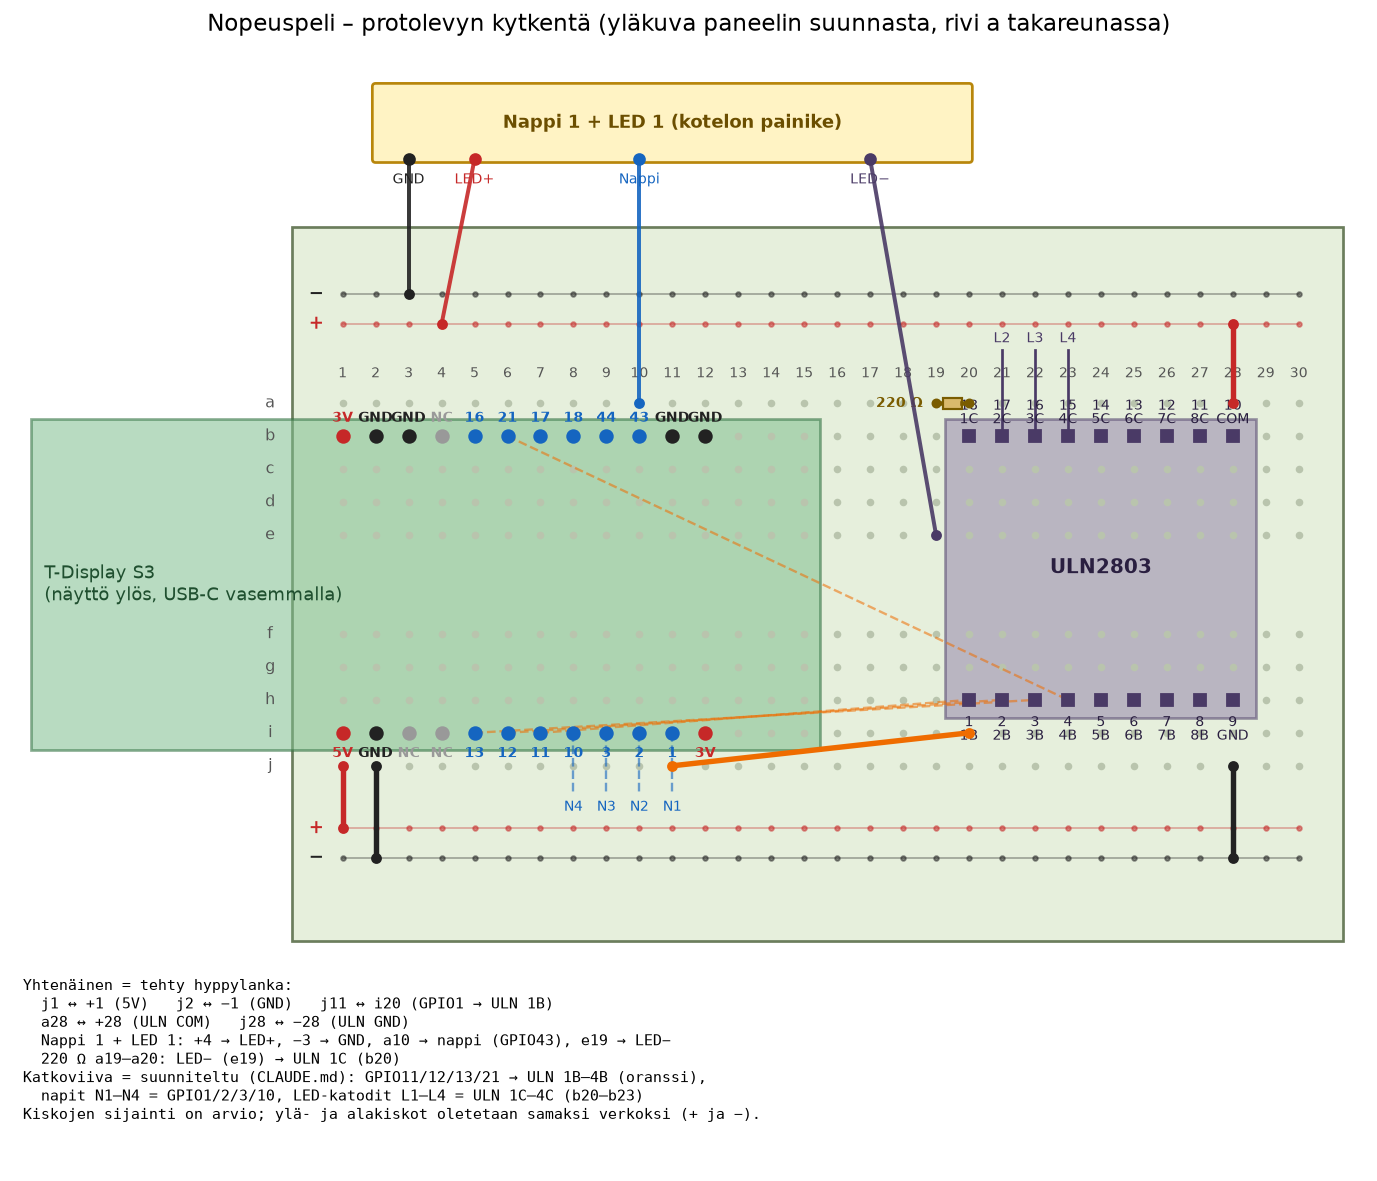
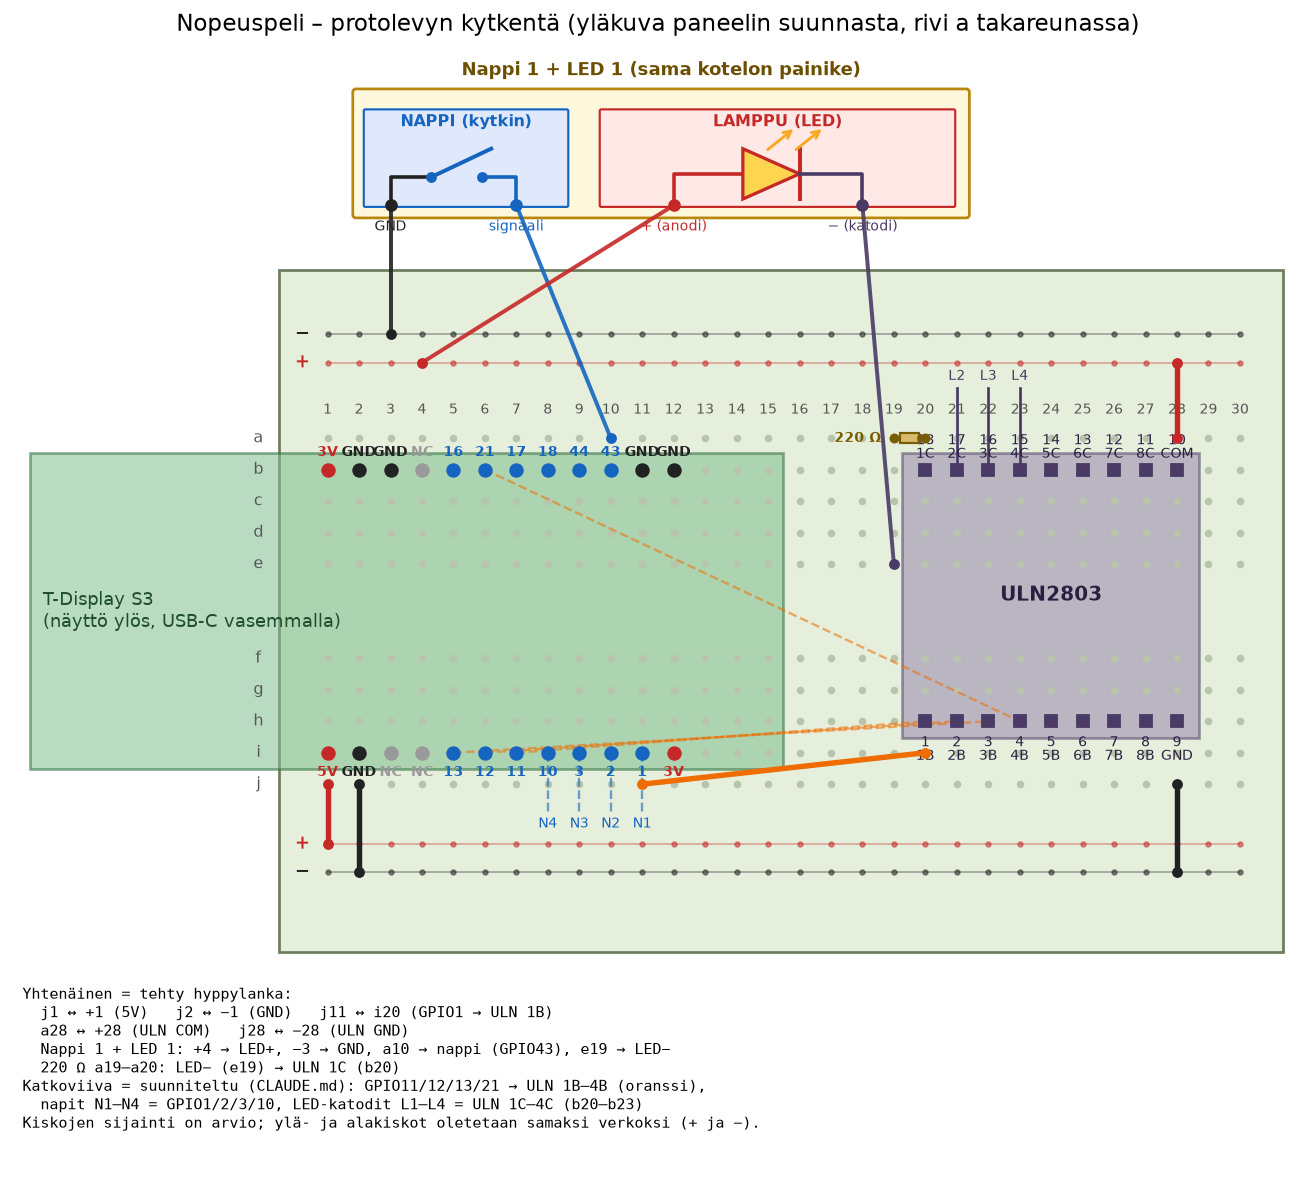
Selkeytä nappi/lamppu-kuva: kytkin- ja LED-symbolit

diff --git a/docs/kytkenta.py b/docs/kytkenta.py
@@ -122,22 +122,41 @@ wire(xy("a", 28), (28, RAILS["yla+"][0]), "#c62828")        # a28 <-> +28 (ULN C
 wire(xy("j", 28), (28, RAILS["ala-"][0]), "#222")           # j28 <-> -28 (ULN GND)
 
 
-# --- TEHTY: nappi 1 + LED 1 (lamppu/nappi-yksikkö levyn yläpuolella) ---
-from matplotlib.patches import FancyBboxPatch
-ax.add_patch(FancyBboxPatch((2, -9.6), 18, 2.2, boxstyle="round,pad=0.1", fc="#fff3c4", ec="#b8860b", lw=1.5, zorder=3))
-ax.text(11, -8.5, "Nappi 1 + LED 1 (kotelon painike)", ha="center", va="center", fontsize=10, weight="bold",
+# --- TEHTY: nappi 1 + LED 1 (kotelon painike: nappi vasemmalla, lamppu oikealla) ---
+from matplotlib.patches import FancyBboxPatch, Circle, Polygon
+Y0 = -7.4  # liittimien taso
+ax.add_patch(FancyBboxPatch((1.9, -11.0), 19.4, 3.9, boxstyle="round,pad=0.1", fc="#fff8dc", ec="#b8860b", lw=1.5, zorder=3))
+ax.text(11.6, -11.4, "Nappi 1 + LED 1 (sama kotelon painike)", ha="center", va="bottom", fontsize=10, weight="bold",
         color="#6b4e00", zorder=4)
-terms = {"LED+": (5.0, "#c62828"), "GND": (3.0, "#222"), "Nappi": (10.0, "#1565c0"), "LED−": (17.0, "#4a3a66")}
-for name, (tx, tc) in terms.items():
-    ax.plot(tx, -7.4, "o", ms=6, color=tc, zorder=6)
-    ax.text(tx, -7.0, name, ha="center", va="top", fontsize=8, color=tc, zorder=6)
+# -- NAPPI (kytkin) --
+ax.add_patch(FancyBboxPatch((2.2, -10.4), 6.4, 3.0, boxstyle="round,pad=0.05", fc="#dfe9fb", ec="#1565c0", lw=1.2, zorder=3))
+ax.text(5.4, -10.05, "NAPPI (kytkin)", ha="center", va="center", fontsize=9, weight="bold", color="#1565c0", zorder=4)
+ax.plot([3, 3, 4.3], [Y0, -8.3, -8.3], color="#222", lw=2, zorder=5)            # GND-puoli
+ax.plot([4.3, 6.2], [-8.3, -9.2], color="#1565c0", lw=2.2, zorder=5)            # kytkimen vipu
+ax.plot([4.3, 5.9], [-8.3, -8.3], color="#1565c0", lw=0, zorder=5)
+ax.plot([5.9, 7, 7], [-8.3, -8.3, Y0], color="#1565c0", lw=2, zorder=5)         # signaali-puoli
+ax.plot([4.3, 5.9], [-8.3, -8.3], "o", ms=5, color="#1565c0", zorder=6)
+ax.text(3.0, -6.95, "GND", ha="center", va="top", fontsize=8, color="#222", zorder=6)
+ax.text(7.0, -6.95, "signaali", ha="center", va="top", fontsize=8, color="#1565c0", zorder=6)
+# -- LAMPPU (LED) --
+ax.add_patch(FancyBboxPatch((9.7, -10.4), 11.2, 3.0, boxstyle="round,pad=0.05", fc="#ffe9e6", ec="#c62828", lw=1.2, zorder=3))
+ax.text(15.3, -10.05, "LAMPPU (LED)", ha="center", va="center", fontsize=9, weight="bold", color="#c62828", zorder=4)
+ax.plot([12, 12, 14.2], [Y0, -8.4, -8.4], color="#c62828", lw=2, zorder=5)         # anodi
+ax.add_patch(Polygon([[14.2, -9.2], [14.2, -7.6], [16.0, -8.4]], closed=True, fc="#ffd54f", ec="#c62828", lw=1.8, zorder=5))
+ax.plot([16.0, 16.0], [-9.2, -7.6], color="#c62828", lw=2.2, zorder=5)             # katodin palkki
+ax.plot([16.0, 18, 18], [-8.4, -8.4, Y0], color="#4a3a66", lw=2, zorder=5)         # katodi
+for dx in (0.0, 0.9):                                                              # valonsäteet
+    ax.annotate("", xy=(15.9 + dx, -10.0 + 0.1), xytext=(14.9 + dx, -9.1), arrowprops=dict(arrowstyle="->", color="#f9a825", lw=1.6), zorder=5)
+ax.text(12.0, -6.95, "+ (anodi)", ha="center", va="top", fontsize=8, color="#c62828", zorder=6)
+ax.text(18.0, -6.95, "− (katodi)", ha="center", va="top", fontsize=8, color="#4a3a66", zorder=6)
 def cable(tx, ty, target, color):
     ax.plot([tx, target[0]], [ty, target[1]], "-", color=color, lw=2.2, zorder=6, alpha=0.9)
+    ax.plot(tx, ty, "o", ms=6, color=color, zorder=7)
     ax.plot(*target, "o", ms=5, color=color, zorder=8)
-cable(5.0, -7.4, (4, RAILS["yla+"][0]), "#c62828")     # +4  -> LED anodi
-cable(3.0, -7.4, (3, RAILS["yla-"][0]), "#222")        # -3  -> napin toinen jalka
-cable(10.0, -7.4, xy("a", 10), "#1565c0")              # a10 -> napin signaali (b10 = GPIO43)
-cable(17.0, -7.4, xy("e", 19), "#4a3a66")              # e19 -> LED katodi
+cable(3.0, Y0, (3, RAILS["yla-"][0]), "#222")        # -3  -> napin GND
+cable(7.0, Y0, xy("a", 10), "#1565c0")               # a10 -> napin signaali (b10 = GPIO43)
+cable(12.0, Y0, (4, RAILS["yla+"][0]), "#c62828")    # +4  -> LED anodi
+cable(18.0, Y0, xy("e", 19), "#4a3a66")              # e19 -> LED katodi
 # vastus a19-a20 (220 ohm): e19/a19 -solmu -> ULN 1C (b20)
 rx0, rx1, ry = 19, 20, 0
 ax.plot([rx0, rx0 + 0.2], [ry, ry], "-", color="#7a5c00", lw=2.5, zorder=8)
@@ -158,6 +177,6 @@ ax.text(-8.7, 17.4, "Yhtenäinen = tehty hyppylanka:\n"
 ax.set_title("Nopeuspeli – protolevyn kytkentä (yläkuva paneelin suunnasta, rivi a takareunassa)", fontsize=13,
              pad=20)
 ax.set_xlim(-9, 32)
-ax.set_ylim(23.2, -10.2)
+ax.set_ylim(23.2, -11.8)
 fig.savefig("docs/kytkenta.png", dpi=130, bbox_inches="tight")
 print("ok")
